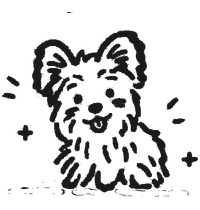
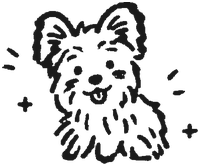
fix(ui): 全身小狗去掉底部残线、线条细化、按钴蓝90%/白10%定位
- 重新从手绘稿二值化，腐蚀 1px 让线条变细
- 剔除底部地面线残留与孤立噪点（用户圈出的"脏"区域）
- 画布改为贴合内容比例（200×166），首页/登录页按 210×174、top -157 摆放
- 半身狗不动
- 原型图与 README 预览重新渲染

diff --git a/tools/build_prd_assets.py b/tools/build_prd_assets.py
@@ -14,7 +14,7 @@ s.rect(0,0,W,170,fill=SKYL)
 s.ill('sun.png',514,84,76); s.ill('cloud.png',40,92,130)
 s.text(40,96,'LIANGYI MUSIC STUDIO',20,mix(COB,.55),True)
 s.rect(0,170,W,331,fill=COB); s.text(40,226,'两仪音乐',104,WHITE,True)
-s.ill('dog.png',504,303,210)                      # 骑跨色带交界，右侧
+s.ill('dog.png',504,344,210)                      # 骑跨色带交界，右侧
 by, bh, gap = 651, 300, 28
 bw = (W-80-gap)//2
 for i,(txt,bg) in enumerate([('我是老师',COB),('我是学员',TERRA)]):
